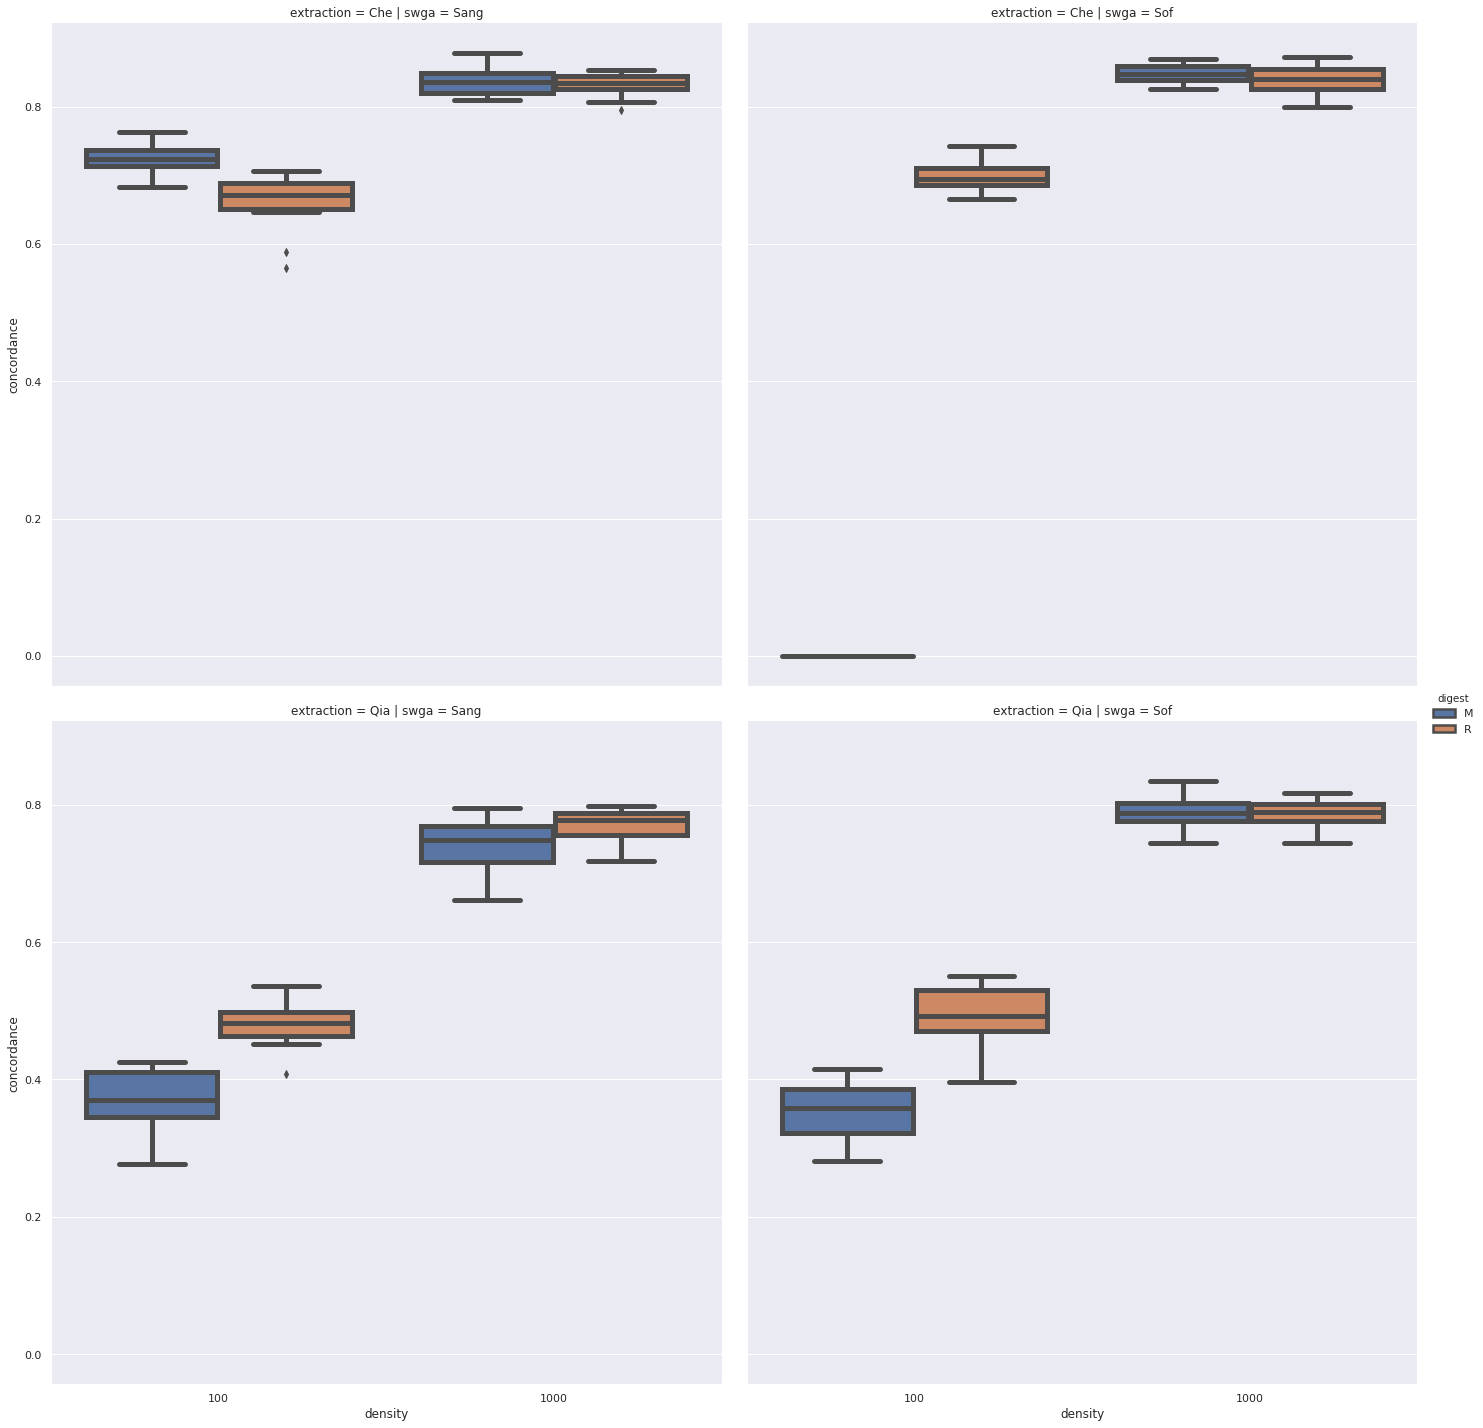
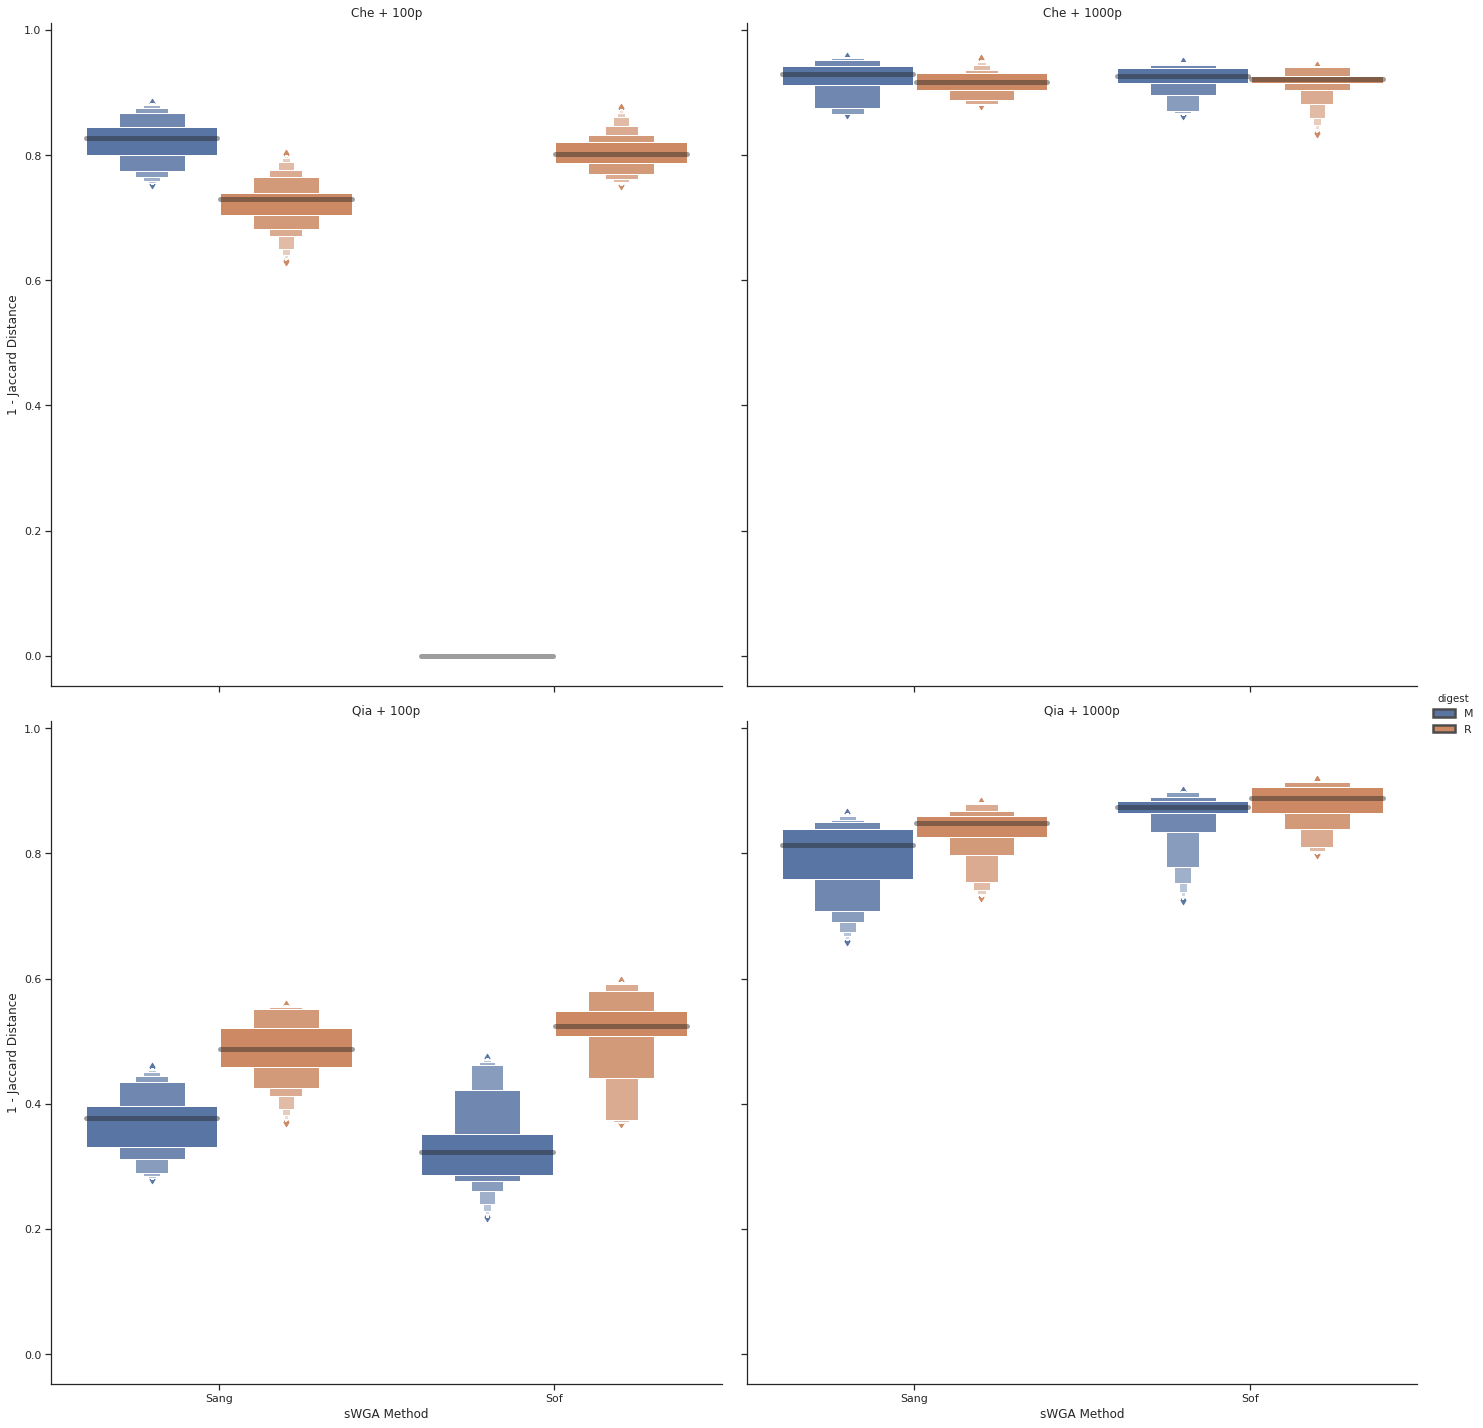
update to concordance (heatmap + replicate)

diff --git a/src/snpDiff.py b/src/snpDiff.py
@@ -7,7 +7,7 @@ from scipy.spatial.distance import *
 
 import seaborn as sns
 import matplotlib.pyplot as plt
-sns.set(rc={'figure.figsize':(22, 22), 'lines.linewidth': 5})
+sns.set(rc={'figure.figsize':(22, 22), 'lines.linewidth': 5}, style='ticks')
 
 class SampleVariants:
     def __init__(self, dir, fn):
@@ -88,13 +88,16 @@ def replicate_concordance(merged_v):
 
     g = sns.catplot(
         data=snp_concordance,
-        col='swga',
+        col='density',
         row='extraction',
         hue='digest',
-        x='density',
+        x='swga',
         y='concordance',
-        kind='box',
+        kind='boxen',
         height=10)
+    g.set_titles("{row_name} + {col_name}p")
+    g.set_ylabels("1 - Jaccard Distance")
+    g.set_xlabels("sWGA Method")
     g.savefig("../plots/replicate_snp_concordance.png")
     plt.show()
     plt.close()
@@ -142,6 +145,20 @@ def snp_concordance(sdf1, sdf2):
     del ssc.columns.name
 
     return ssc
+def optim_concordance_heatmap(v_ssc):
+    """draw heatmap of snp concordance across optim"""
+    df = v_ssc.set_index('sampleName')
+    sns.heatmap(
+        data=df,
+        robust=True,
+        square=True,
+        center=0.7,
+        linewidths=0.25,
+        xticklabels=False)
+    plt.ylabel("Sample Name")
+    plt.savefig("../plots/grouped_snp_concordnace.png")
+
+
 
 def main():
     exp_dir = "../variant_calls/opt4/"
@@ -171,12 +188,12 @@ def main():
     # distribution of overlaps with single strains
     [sns.distplot(np.log10(1e-6 + ssc.iloc[:,i])) for i in range(1, ssc.shape[1])]
 
-    # replicate concordance heatmap
-    sns.heatmap(v_ssc.set_index('sampleName'))
+    # replicate + sample concordance
+    replicate_concordance(merged_v)
+    optim_concordance_heatmap(v_ssc)
 
     # # plot_snp_sample_dist(merged_v)
     # # single_sample_snps(merged_v)
-    # # replicate_concordance(merged_v)
 
 
 if __name__ == '__main__':
